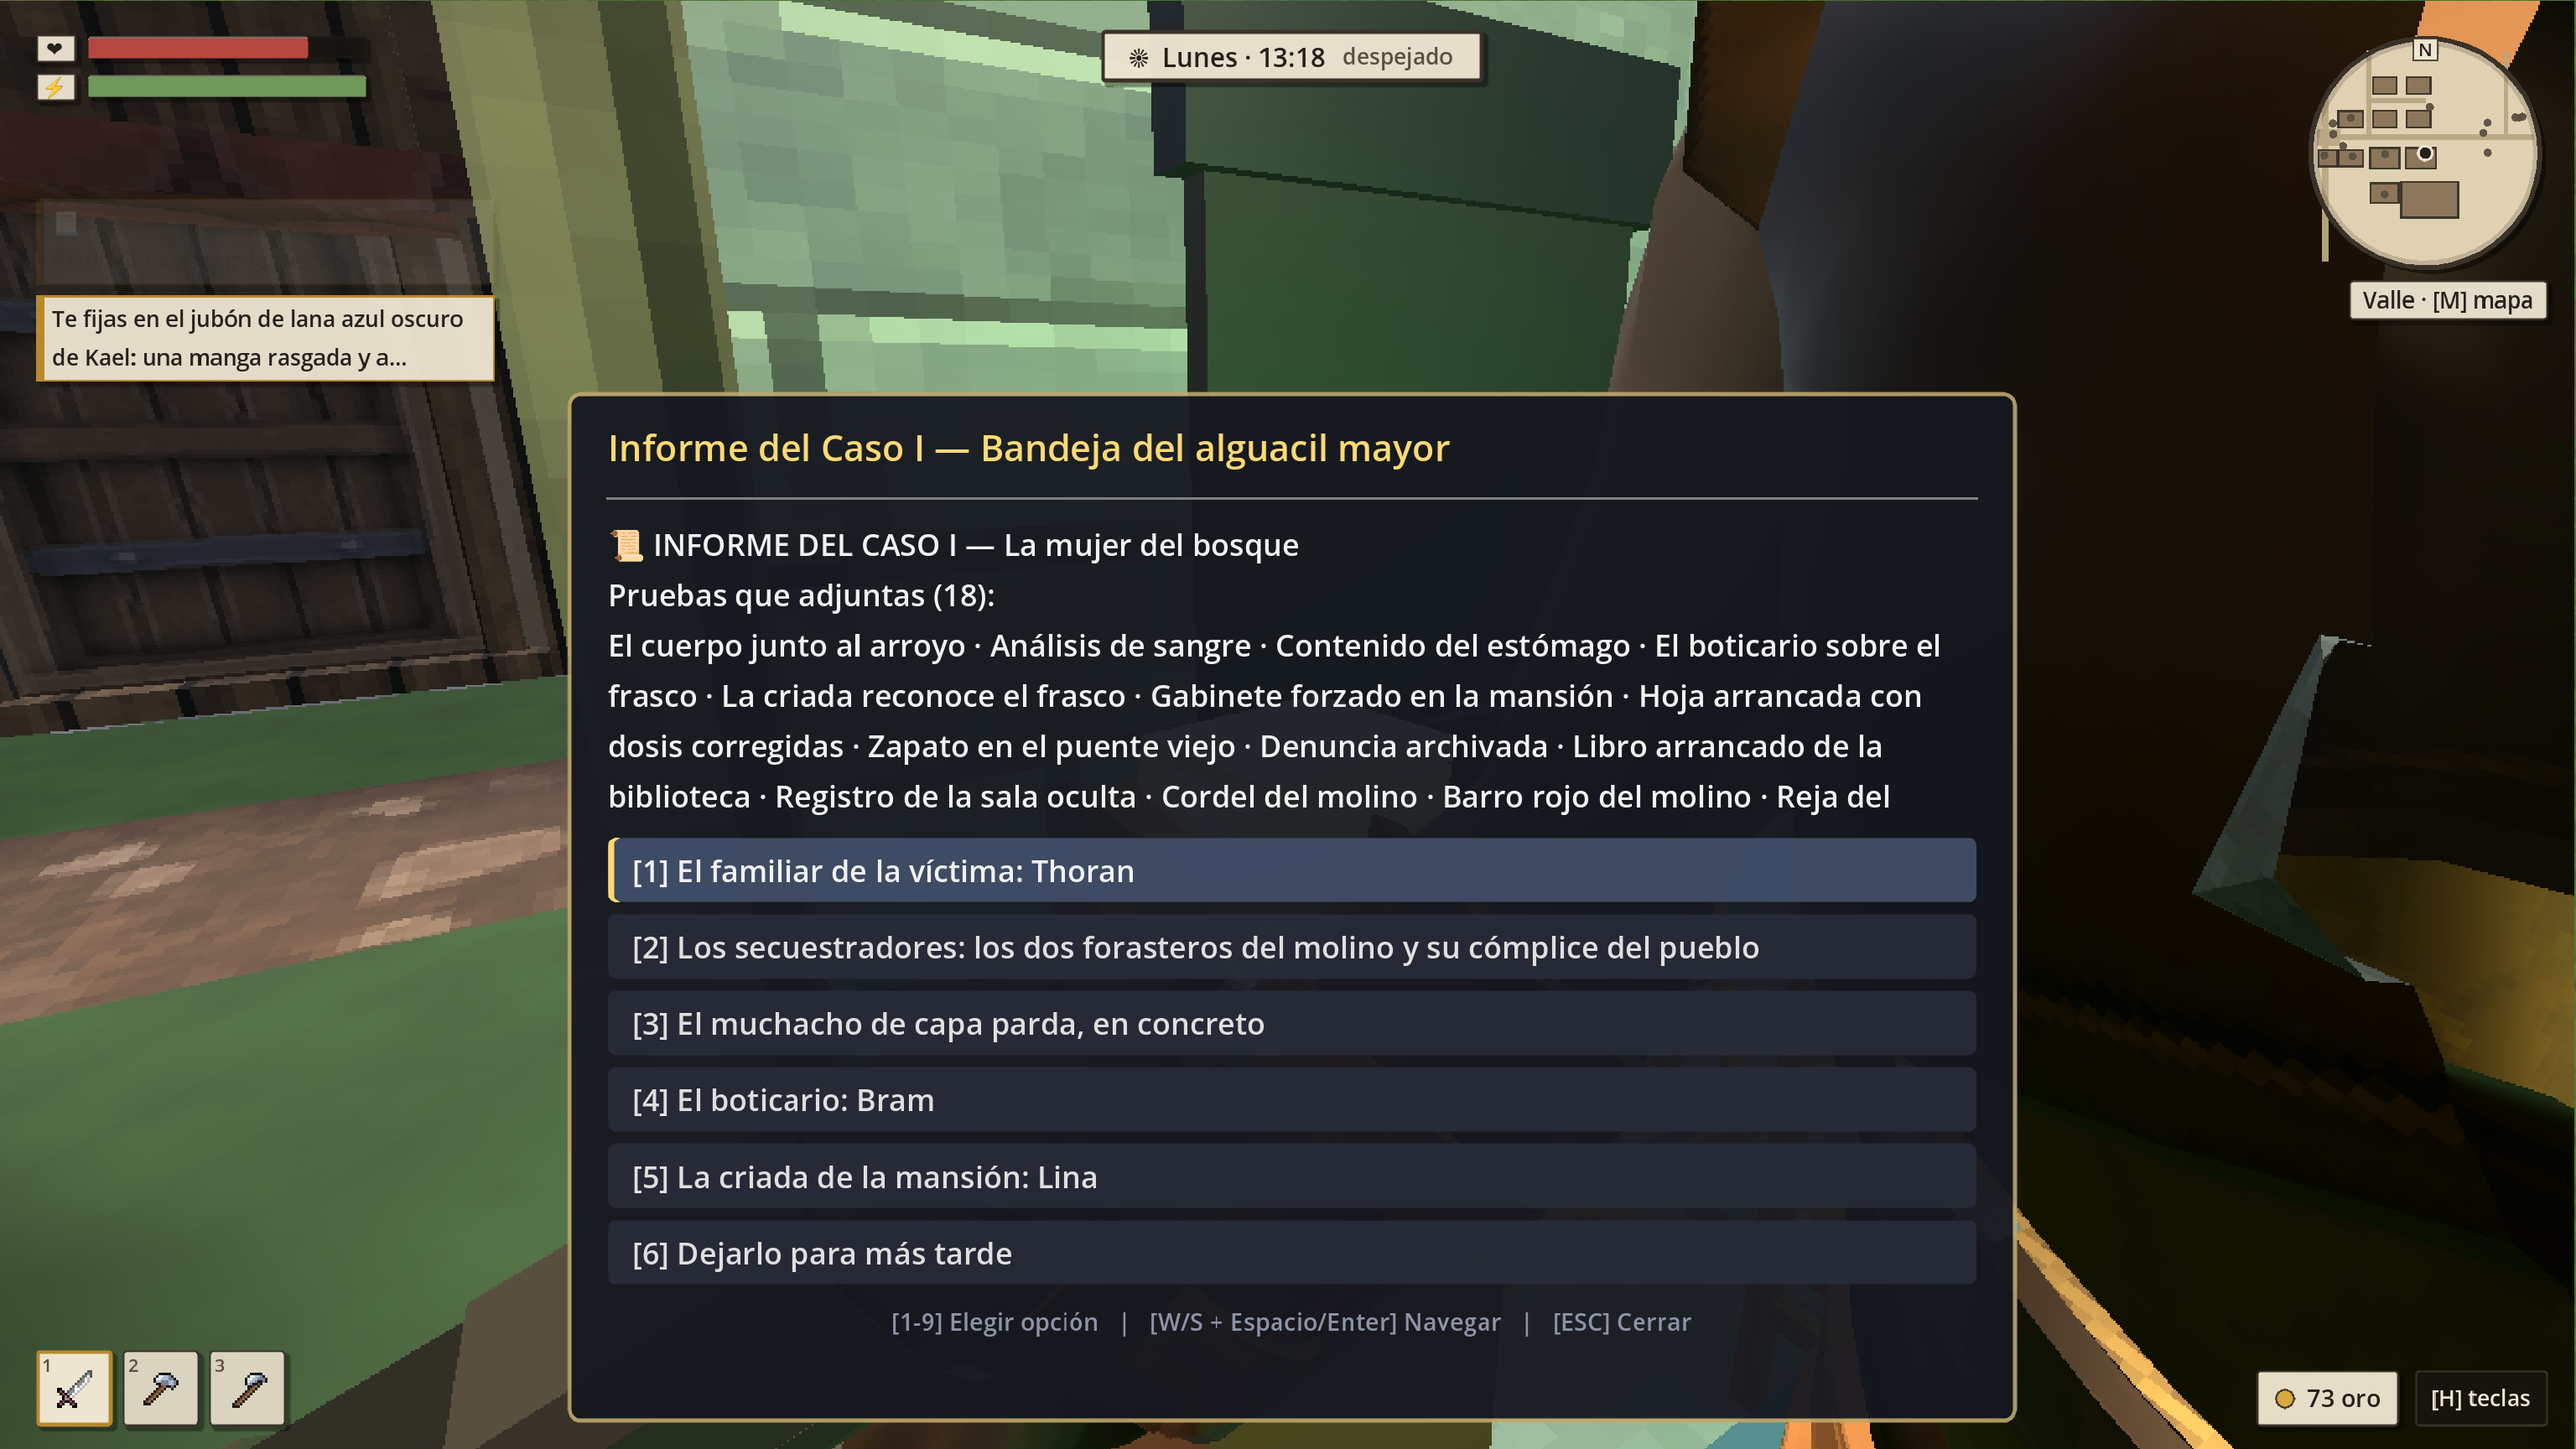
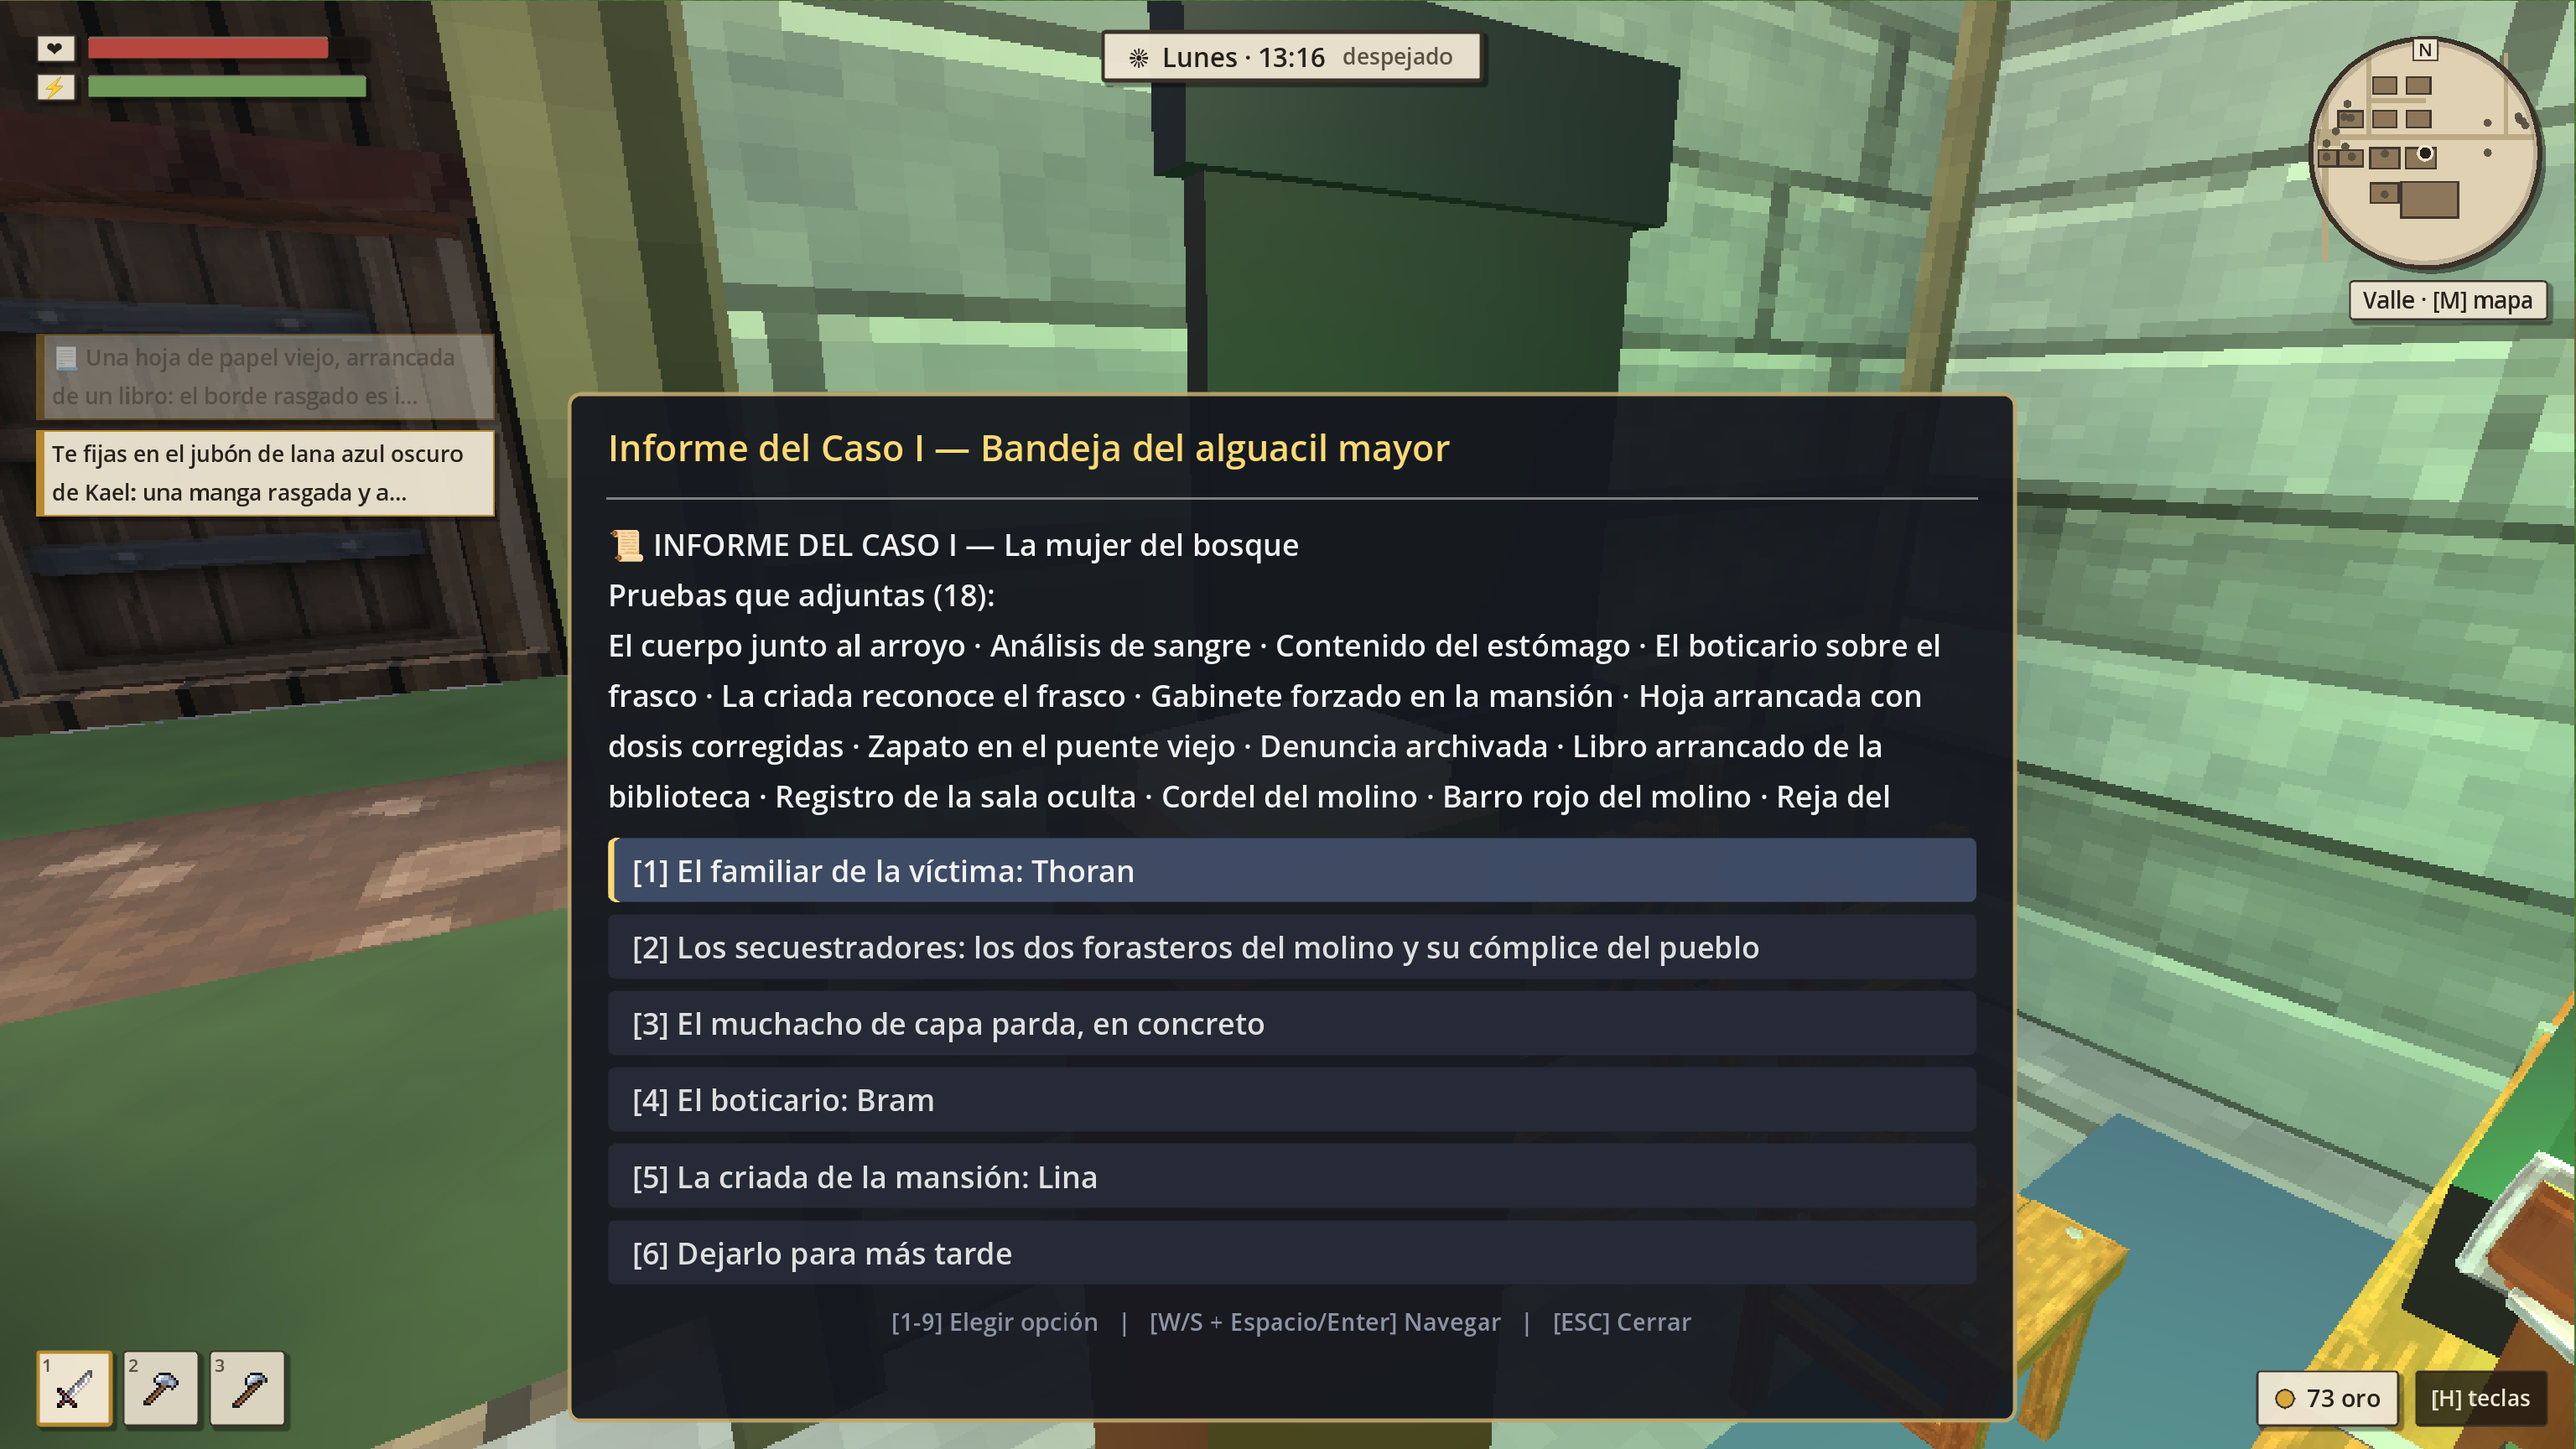
Vecinos lejanos simplificados activados (orden del usuario) con muñeco 3D suavizado: 22-45 fps en el portátil

Changed region(s): [[0.625, 0.0, 1.0, 1.0], [0.0, 0.1875, 0.2188, 0.375], [0.0938, 0.8438, 0.5, 1.0]]

diff --git a/docs/FALLOS_VISIBLES.md b/docs/FALLOS_VISIBLES.md
@@ -5,7 +5,7 @@
 > Formato: `- [ ] Qué se ve mal · dónde · cuándo (hora del juego, 2D/3D/primera persona)`.
 
 ## Pendientes
-- [ ] **(PRIORIDAD 1) Rendimiento terrible**, incluso en el PC de escritorio con gráfica de última generación · 1.ª persona (usuario, 2026-11-09). *(Mejorado 2026-11-09: el cuello de botella era el procesador, no la gráfica: la lógica de los vecinos en cada paso de física y el motor encadenando hasta 8 pasos por fotograma. Portátil: 3–4 → 14–21 fps (rejilla de vecinos y terreno quieto juntado por zonas de 256 px: afueras 8.400 → 5.300 llamadas de dibujo, bosque y molino a la mitad). Pendiente: la lógica de los vecinos sigue siendo lo más caro (~13 ms por paso con 43); sombras del sol duplican las llamadas. Sondas: `tools/tests/perf_zonas.gd`, `perf_fisica.gd`.)*
+- [ ] **(PRIORIDAD 1) Rendimiento terrible**, incluso en el PC de escritorio con gráfica de última generación · 1.ª persona (usuario, 2026-11-09). *(Mejorado 2026-11-09: el cuello de botella era el procesador, no la gráfica: la lógica de los vecinos en cada paso de física y el motor encadenando hasta 8 pasos por fotograma. Portátil: 3–4 → 14–21 fps (rejilla de vecinos y terreno quieto juntado por zonas de 256 px: afueras 8.400 → 5.300 llamadas de dibujo, bosque y molino a la mitad). Después, con la simulación simplificada de vecinos lejanos activada por el usuario: afueras 24, plaza 22, río 19, bosque 36, molino 45, mansión 40 fps. Pendiente: sombras del sol (duplican las llamadas de dibujo) y la geometría junto al río. Sondas: `tools/tests/perf_zonas.gd`, `perf_fisica.gd`.)*
 - [ ] **Vecinos atascados por todas partes** desde que se añadió el río nuevo: la IA no sabe rodearlo · pueblo (2026-11-09). *(Mejorado 2026-11-09: se congelaban contra el margen de los edificios y la orilla; ahora se deslizan por el borde y las rutas no rozan ese margen. Sonda `tools/tests/atascos_vecinos.gd`: 9 → 2 atascos en 4 h de juego; quedan huecos muy estrechos entre la herboristería y la pescadería y un recodo de la orilla oeste en y≈-411.)*
 - [ ] **El molino está a 2 metros del cuerpo de la víctima**, y el bosque tiene árboles metidos unos dentro de otros · 3D (2026-11-09).
 - [ ] **Controles que se pisan** (varias acciones en la misma tecla) · (2026-11-09).

diff --git a/CHANGELOG.md b/CHANGELOG.md
@@ -5,7 +5,7 @@ El detalle técnico está en `docs/HANDOFF.md` (sección 7) y el historial compl
 
 
 ## 2026-11-09 (tarde) — Rendimiento, vecinos atascados e informe del Caso I (Claude Code)
-- **Rendimiento:** el juego iba lento por el procesador, no por la gráfica. Los vecinos hacían comprobaciones caras (puertas, muros, edificios) contra todos los demás en cada instante, y el motor encadenaba hasta 8 pasos por fotograma para ponerse al día. Ahora lo barato va primero, las huellas de edificios están en caché y hay un tope de 3 pasos a velocidad normal. Portátil: de 3–4 a 12–17 fps. Luego: rejilla de vecinos por paso (cada uno mira solo su zona) y terreno quieto juntado por zonas → 14–21 fps; afueras de 8.400 a 5.300 llamadas de dibujo.
+- **Rendimiento:** el juego iba lento por el procesador, no por la gráfica. Los vecinos hacían comprobaciones caras (puertas, muros, edificios) contra todos los demás en cada instante, y el motor encadenaba hasta 8 pasos por fotograma para ponerse al día. Ahora lo barato va primero, las huellas de edificios están en caché y hay un tope de 3 pasos a velocidad normal. Portátil: de 3–4 a 12–17 fps. Luego: rejilla de vecinos por paso (cada uno mira solo su zona) y terreno quieto juntado por zonas → 14–21 fps; afueras de 8.400 a 5.300 llamadas de dibujo. Por último, vecinos lejanos simplificados (activado por el usuario) con el muñeco 3D suavizado: 22–45 fps según la zona.
 - **Vecinos atascados:** se deslizan por el borde de edificios y orillas en vez de congelarse; 9 → 2 atascos en 4 h de juego.
 - **Día de 18 minutos** (antes 6).
 - **Informe del Caso I** en la comisaría (bandeja junto a la entrada): pruebas del cuaderno + a quién culpas; queda guardado para el final. Las pistas del caso a las que apuntas ganan a una puerta cercana.

diff --git a/docs/HANDOFF.md b/docs/HANDOFF.md
@@ -272,7 +272,7 @@ Otros documentos antiguos en la raíz: `ROADMAP_PROYECTO.md`, `AUDIT_LOG.md`, `S
   (talar/roca agotada escala la copia a cero). `seed_start_population`: una de cada dos casas con `remote = true`.)
   Medido en Intel UHD 620 a 3072×1728: 2.317 mallas 3D, de ellas Buildings3D 1.481, Characters3D 362, Nature3D 199,
   Terrain3D 157 → el siguiente candidato es juntar piezas quietas de los edificios (muebles, muros, suelos). El usuario
-  NO quiere que los vecinos lejanos se simulen a ratos.
+  NO quiere que los vecinos lejanos se simulen a ratos. **Cambiado por el usuario el 2026-11-09: activada (`lod_enabled = true`), con el muñeco 3D suavizado (`CharacterAvatar3D._smoothed_entity_pos`).**
 
 - [x] **Arranque con 40 vecinos, PROVISIONAL (Claude Code, 2026-11-06)** (`VillageMigration.gd`: `START_POPULATION = 40`
   (0 = arranque normal), `seed_start_population` levanta casas al instante con `VillageLots.build_instant_house` cuando
